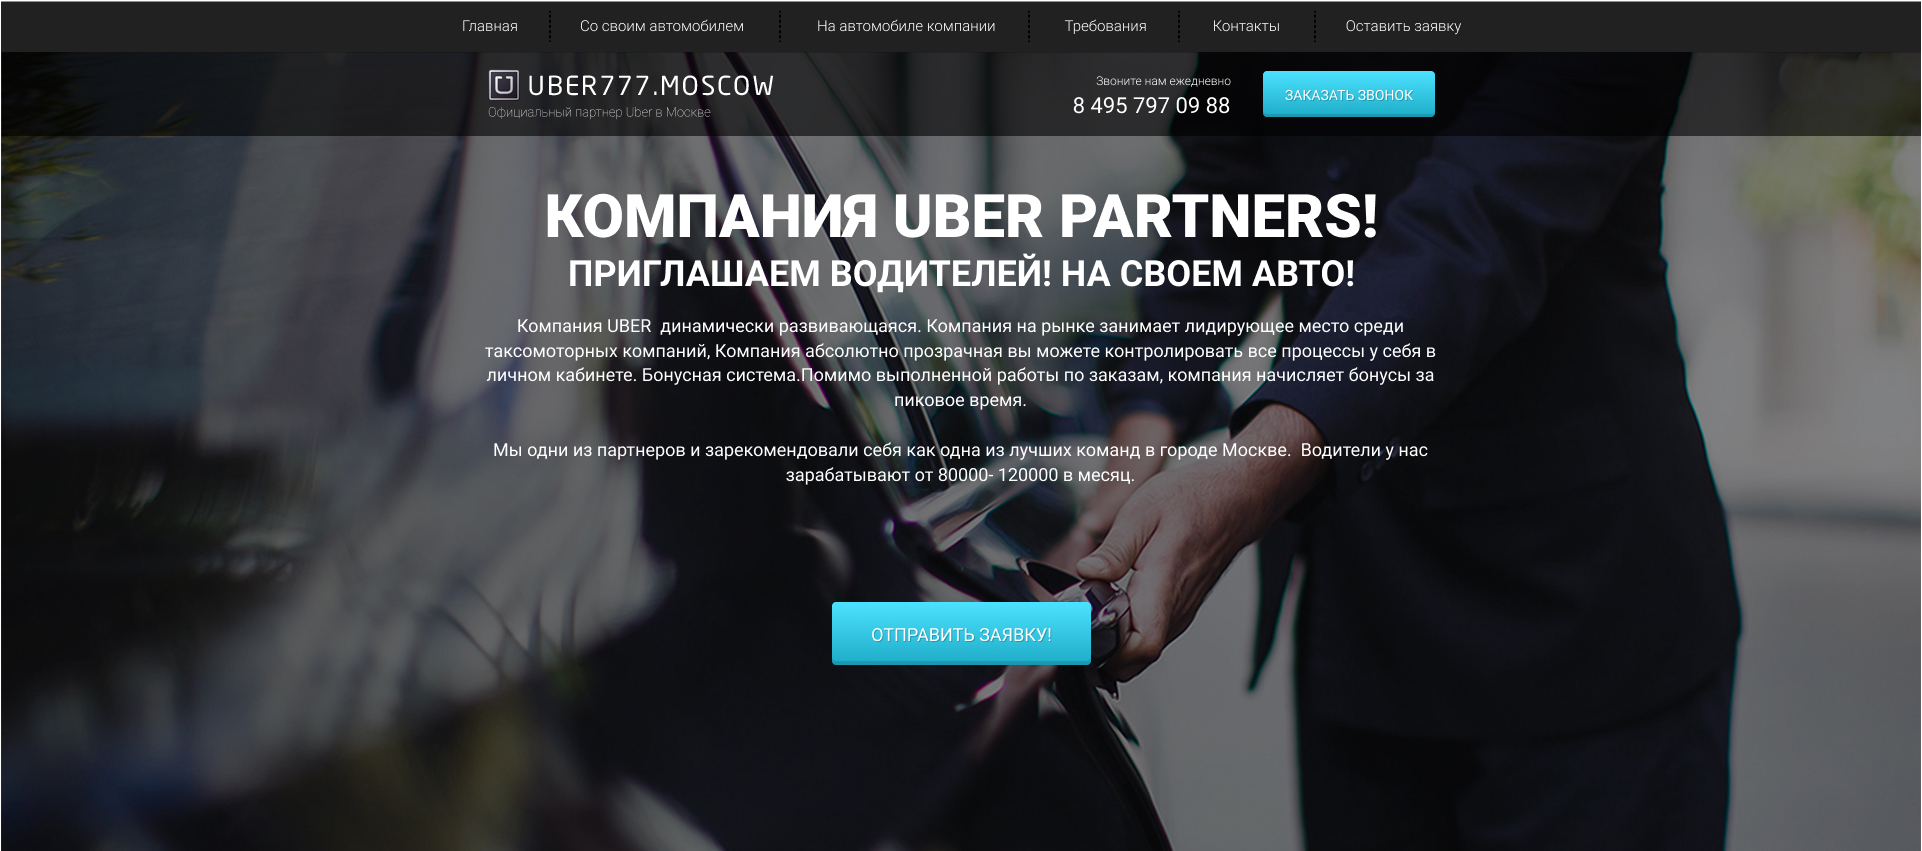
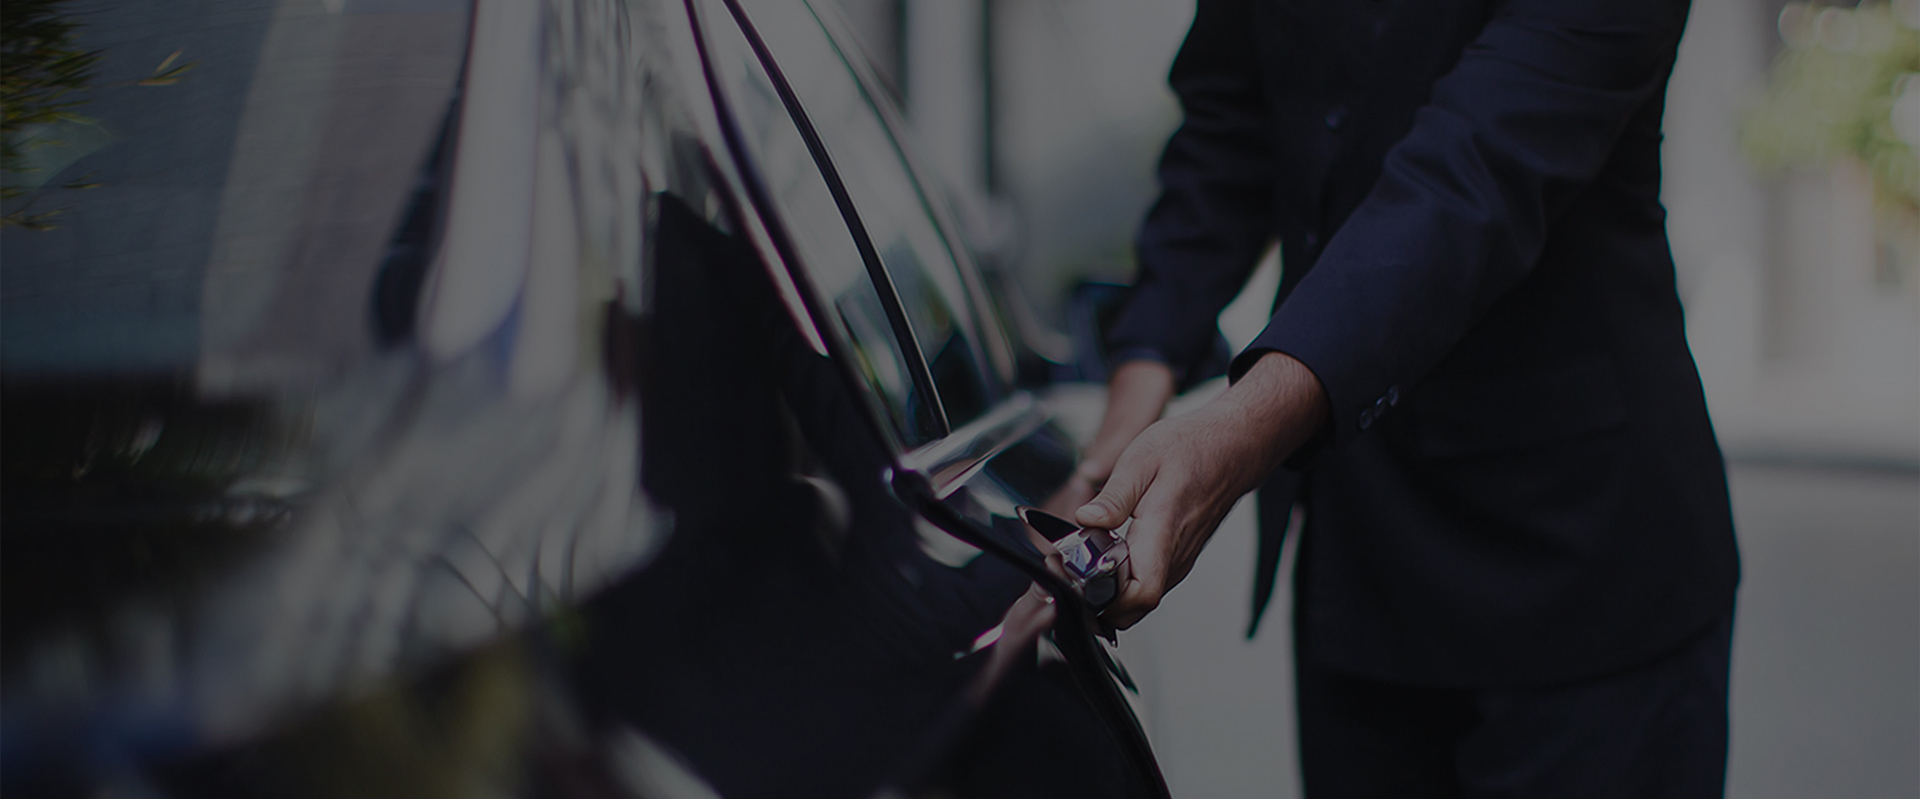
Add subheader & styles for it

diff --git a/css/style.css b/css/style.css
@@ -23,3 +23,56 @@ nav {
     border-right: 2px dotted black;
     padding-right: 40px;
 }
+
+/*SUBHEADER*/
+.subheader {
+    height: 87px;
+    background: rgba(0, 0, 0, .6);
+}
+.subheader .subheader_logo {
+    display: block;
+    max-width: 100%;
+    margin-top: 16px;
+}
+.subheader .subheader_official {
+    margin-top: 10px;
+    font-style: normal;
+    font-weight: 100;
+    font-size: 13px;
+    color: #FFFFFF;
+    opacity: 0.5;
+}
+.subheader .subheader_call {
+    margin-top: 23px;
+    font-style: normal;
+    font-weight: 300;
+    font-size: 12px;
+    text-align: right;
+    color: #FFFFFF;
+}
+.subheader .subheader_phone {
+    display: block;
+    font-style: normal;
+    font-weight: 400;
+    font-size: 22px;
+    text-align: right;
+    text-transform: uppercase;
+    color: #FFFFFF;
+    text-decoration: none;
+}
+.subheader .subheader_btn {
+    margin-top: 23px;
+    width: 172px;
+    height: 46px;
+    background: linear-gradient(0deg, #1EACC7 0%, #4CE2FF 100%);
+    box-shadow: inset 0px -3px 0px rgba(0, 0, 0, 0.12);
+    border-radius: 4px;
+    font-style: normal;
+    font-weight: 400;
+    font-size: 14px;
+    text-align: center;
+    text-transform: uppercase;
+    color: #FFFFFF;
+    text-shadow: 1px 1px 0px rgba(0, 0, 0, 0.21);
+}
+

diff --git a/index.html b/index.html
@@ -28,7 +28,25 @@
             </ul>
         </div>
     </nav>
-
+    <div class="subheader">
+        <div class="container">
+            <div class="row">
+                <div class="col-md-3 offset-md-1">
+                    <a href="#" class="subheader_logo">
+                        <img src="icons/uber_logo.png" alt="logo" class="subheader_img">
+                    </a>
+                    <div class="subheader_official">Официальный партнер Uber в Москве</div>
+                </div>
+                <div class="col-md-2 offset-md-3">
+                    <div class="subheader_call">Звоните нам ежедневно</div>
+                    <a href="tel:84957970988" class="subheader_phone">8 495 797 09 88</a>
+                </div>
+                <div class="col-md-2">
+                    <button class="subheader_btn">Заказать звонок</button>
+                </div>
+            </div>
+        </div>
+    </div>
 </header>
 
 <!-- Optional JavaScript; choose one of the two! -->
